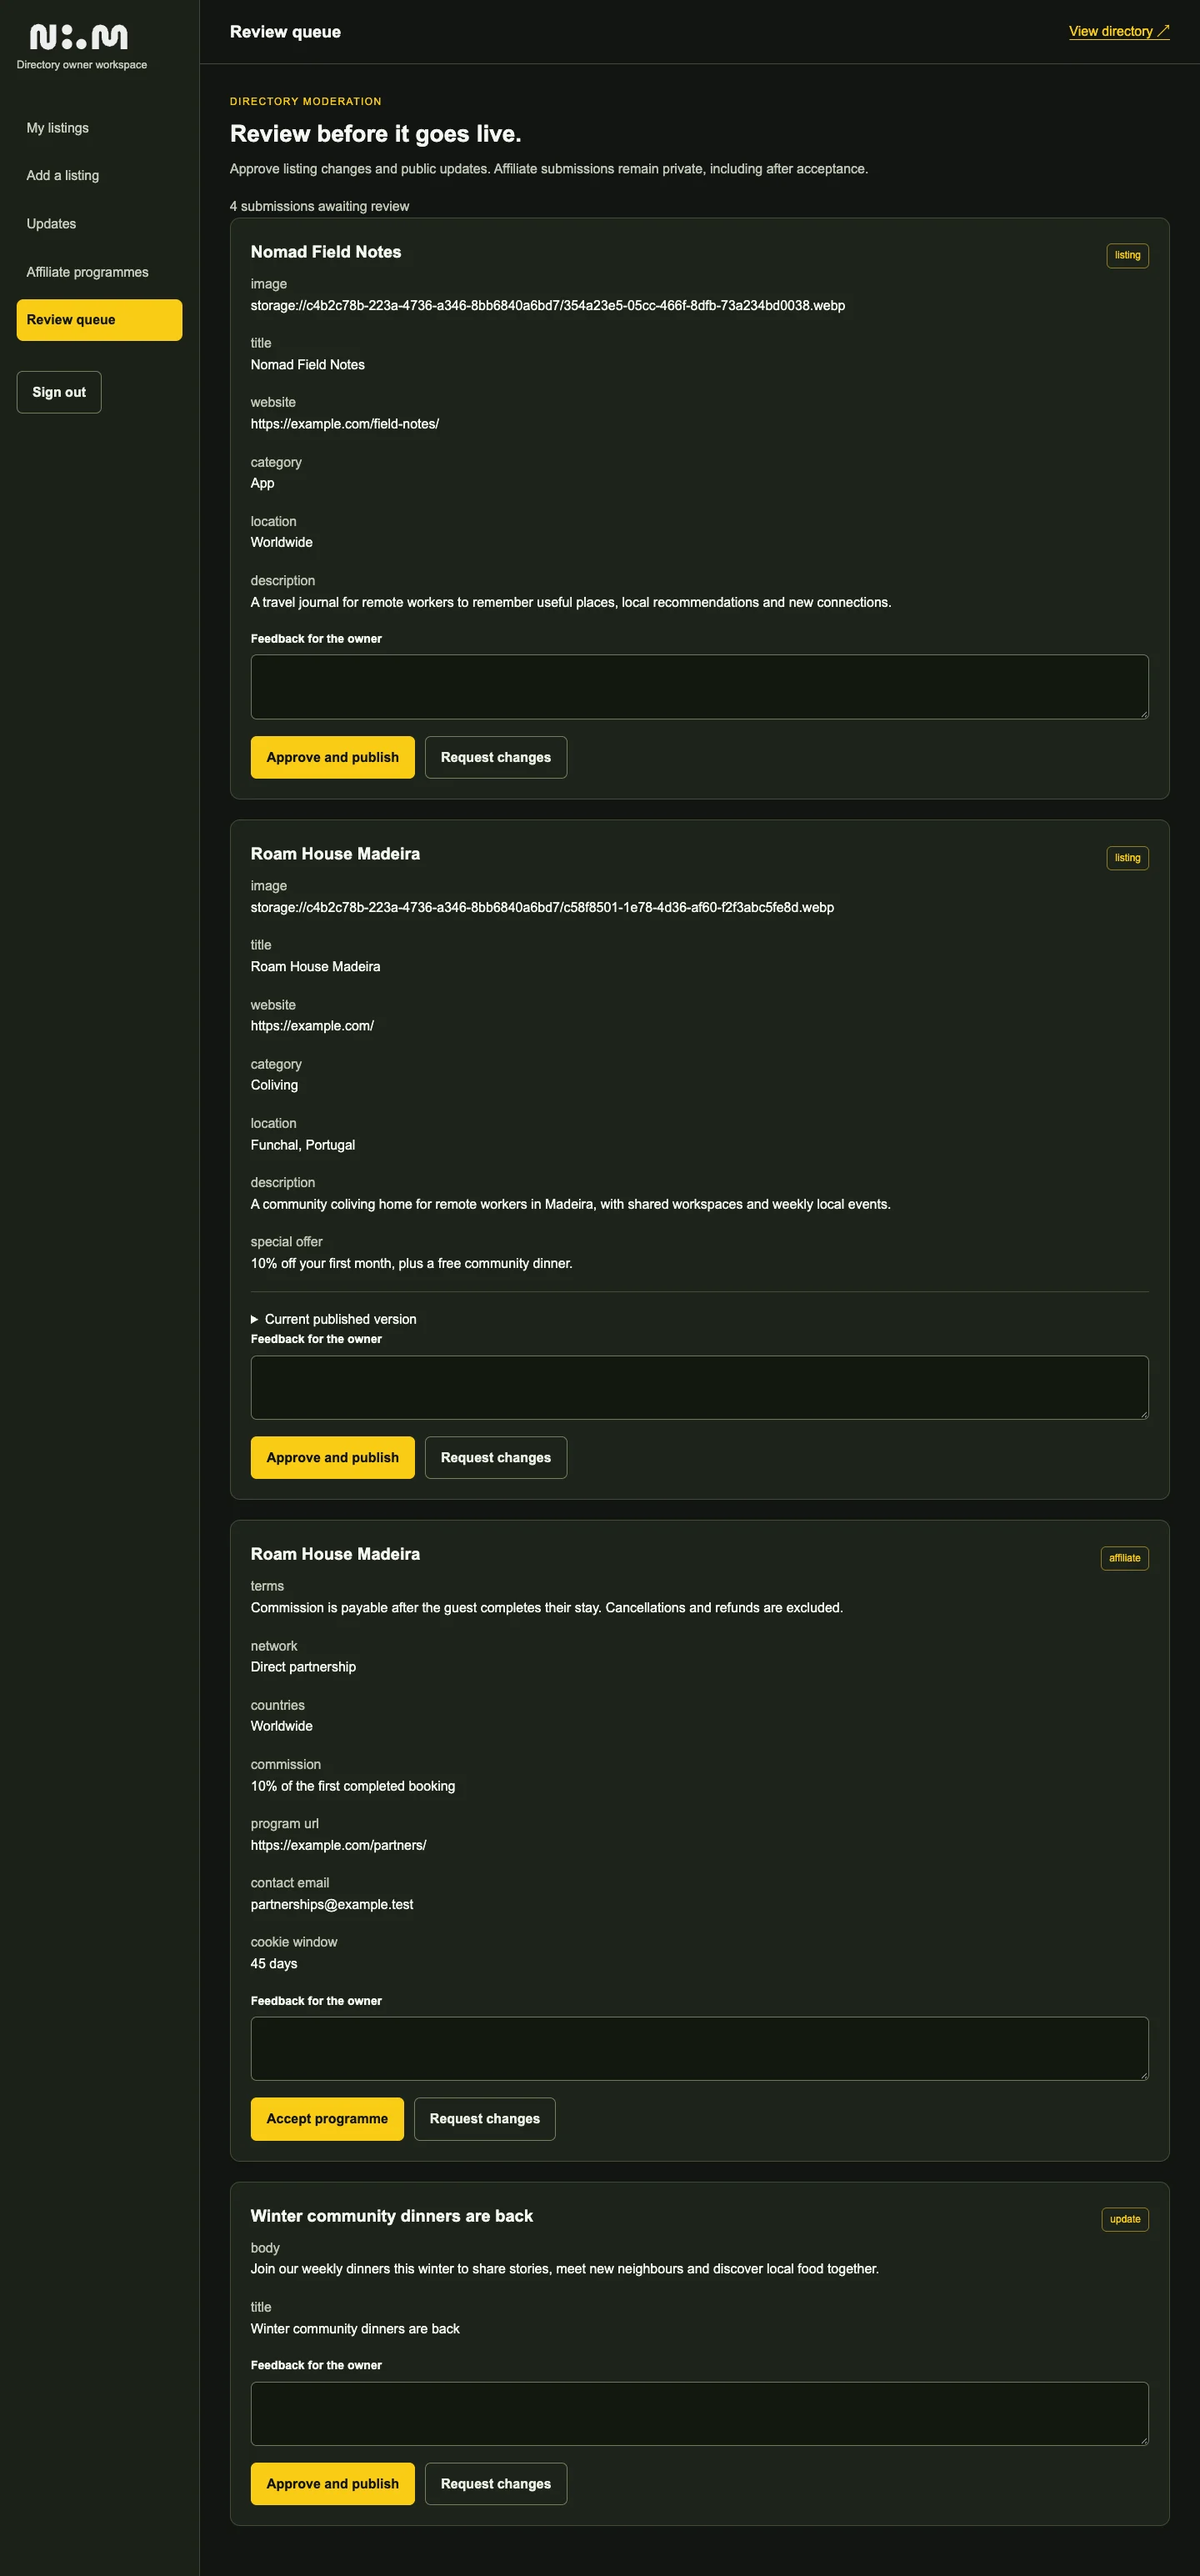
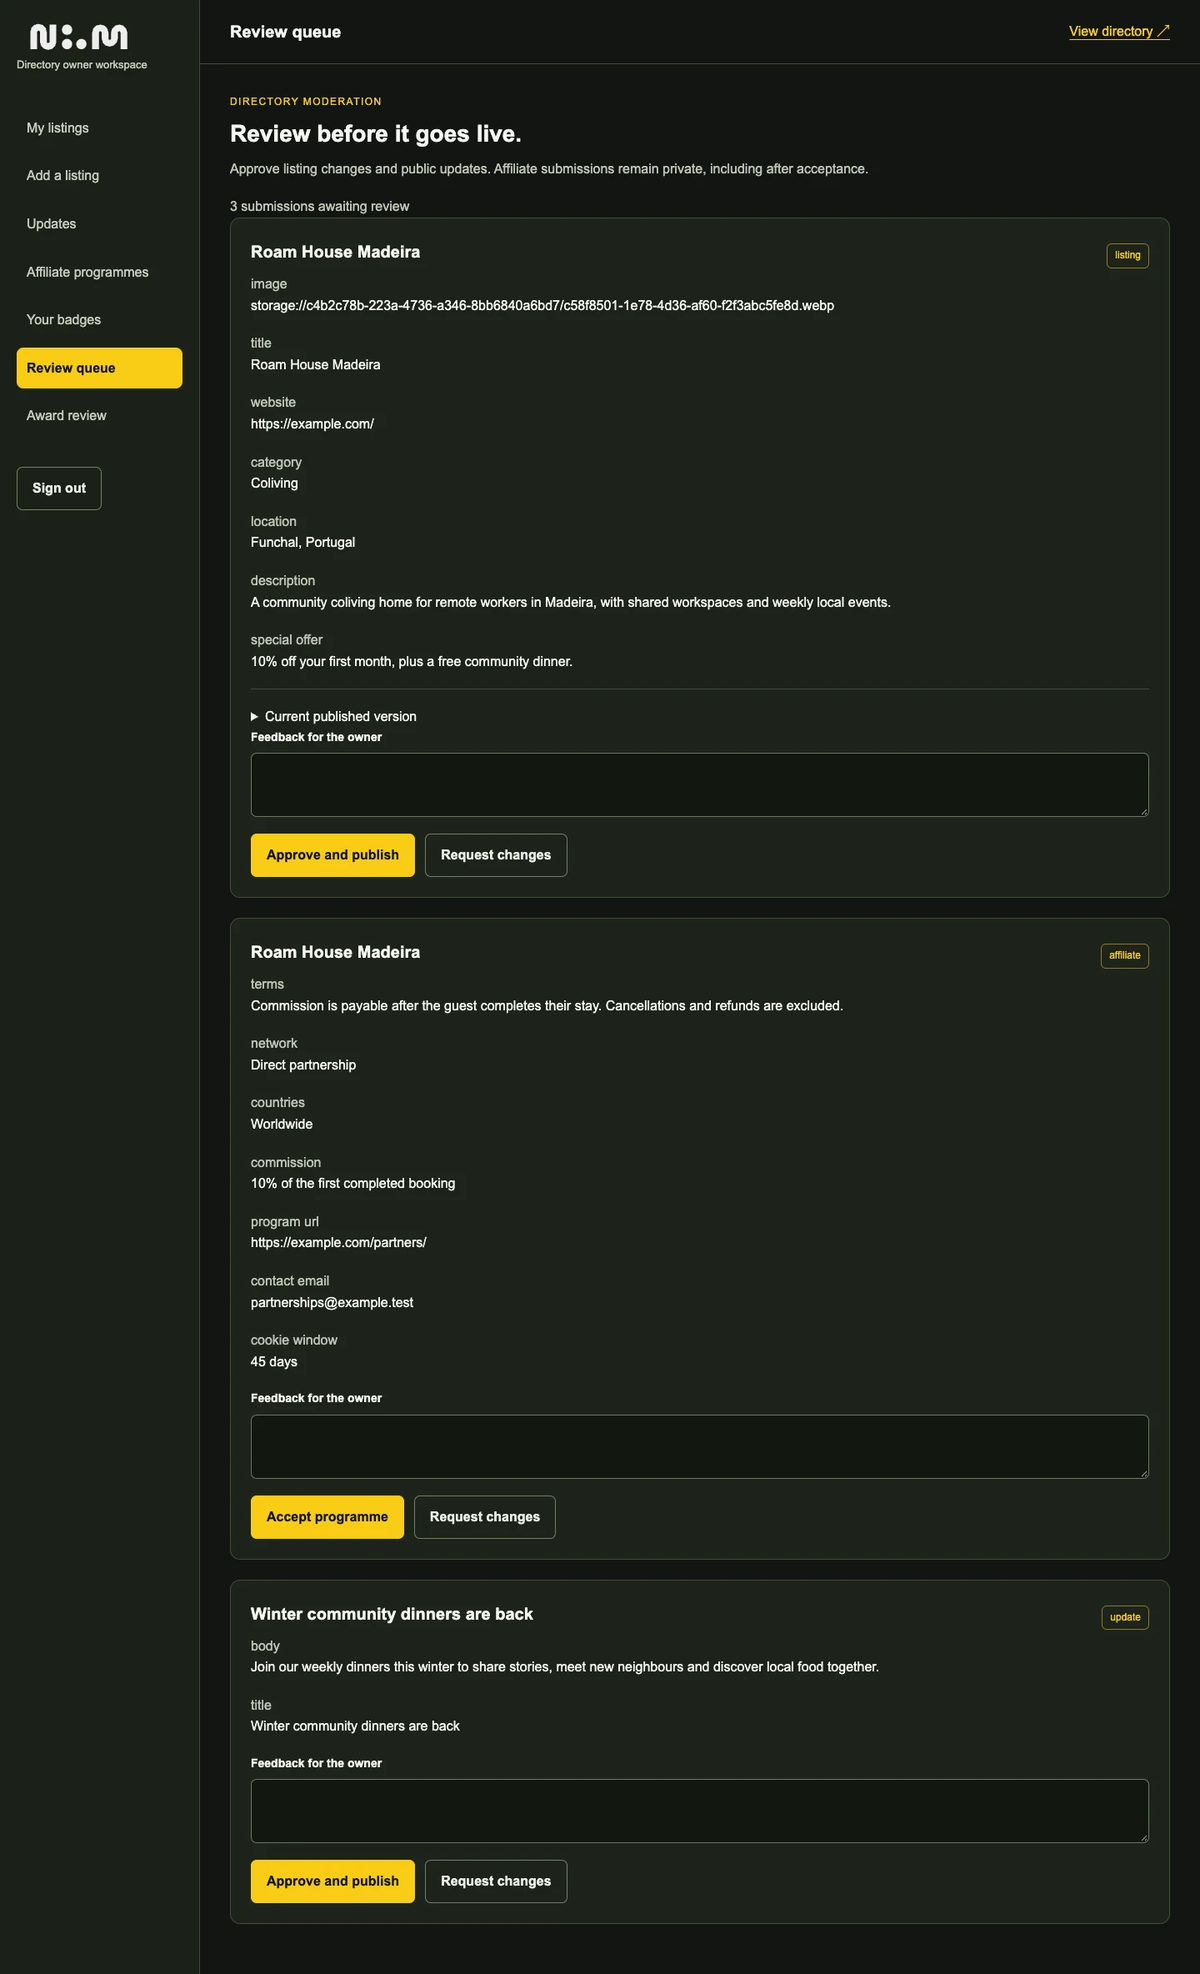
docs: show every directory feature in PR screenshots

diff --git a/docs/screenshots/README.md b/docs/screenshots/README.md
@@ -1,67 +1,113 @@
-# Directory priority and owner management
+# Directory priority, owner accounts, votes and awards
 
-Real Chrome captures. Website before: commit `5841f16`. Desktop website captures: 1440 × 1000; mobile: 390 × 844. Owner screenshots are full-page captures at 1440px or 390px wide, from authenticated sessions against **isolated local Supabase with fictional demo businesses**. No production accounts or commercial terms are shown. The Astro developer toolbar is hidden.
+Real Chrome captures of the implemented website. Before: base commit `5841f16`. After: this branch. **Accounts, votes, updates and awards use isolated local Supabase fixtures; businesses and completed contest periods are demonstrations, not production winners.** The embedded website example uses the actual copied badge HTML. Backend migrations and checks are linked above and below; paid placement/payment and affiliate activation remain proposals.
 
-## Homepage: new hero, original sections underneath
+### Homepage and header — before / after
 
-| Before | After |
+| Desktop before | Desktop after |
 | --- | --- |
-| ![Original homepage](home-before.webp) | ![Directory hero with original homepage sections](home-after.webp) |
+| ![Original homepage and header](home-before.webp) | ![Directory hero and original header with one Magazine menu](home-after.webp) |
+
+| Mobile before | Mobile after |
+| --- | --- |
 | ![Original mobile homepage](home-mobile-before.webp) | ![Mobile directory hero](home-mobile-after.webp) |
 
-The existing directory cards are moved up, and the original magazine presentation remains below the fold:
+The original magazine presentation remains active below the fold:
 
-![Original magazine cover presentation retained below the fold](home-magazine-after.webp)
+![Original magazine presentation retained below the fold](home-magazine-after.webp)
 
-## Directory: same URL and existing visual design
+### Directory — same URL, existing design
 
-The hero, sidebar and list cards retain their original design. Listings are now in the initial HTML, and approved owner changes are served immediately. The after screenshot includes local fixture listings used to verify publication.
-
-| Before | After |
+| Desktop before | Desktop after |
 | --- | --- |
-| ![Directory before](directory-before.webp) | ![Directory with server-rendered listings](directory-after.webp) |
-| ![Mobile directory before](directory-mobile-before.webp) | ![Mobile directory after](directory-mobile-after.webp) |
+| ![Original directory](directory-before.webp) | ![Server-rendered directory with winner link](directory-after.webp) |
 
-## Owner management — implemented
-
-![Owner dashboard with a live listing, pending edits and a draft](owner-dashboard.webp)
-
-![Edit business details and submit for review](owner-listing.webp)
-
-![Create and manage business updates](owner-updates.webp)
-
-![Submit private affiliate programme terms](owner-affiliates.webp)
-
-![Reviewer queue with the current published version and pending changes](owner-review.webp)
-
-| Mobile dashboard | Mobile affiliate form |
+| Mobile before | Mobile after |
 | --- | --- |
-| ![Mobile owner dashboard](owner-dashboard-mobile.webp) | ![Mobile affiliate programme](owner-affiliates-mobile.webp) |
+| ![Original mobile directory](directory-mobile-before.webp) | ![Mobile server-rendered directory](directory-mobile-after.webp) |
 
-Run the scripts in [the owner workspace runbook](../directory-owner-workspace.md) to reproduce the account, form, RLS, publication and browser checks. The migration has not been applied to production.
+### Account creation, ownership and listing management
 
-## Member upvotes
+![Email account creation and sign in](owner-login.webp)
 
-Real local Supabase votes, not production popularity. The highlighted button is the signed-in member's vote; totals are public. The original directory card styling is retained.
+![Owner dashboard, published listings, drafts and verified claim form](owner-dashboard.webp)
 
-![Directory sorted by most upvoted, with the member's vote highlighted](votes-directory.webp)
+![Edit business details, upload a logo, save a draft or submit changes](owner-listing.webp)
 
-| Login before voting | Mobile upvotes |
+### Business updates — owner and public views
+
+![Owner creates and manages business updates](owner-updates.webp)
+
+![Approved business updates displayed publicly](public-updates.webp)
+
+### Affiliate programme and reviewer workflow
+
+![Private affiliate programme submission and review status](owner-affiliates.webp)
+
+![Reviewer queue for listing changes, updates and affiliate terms](owner-review.webp)
+
+| Mobile owner dashboard | Mobile affiliate programme |
 | --- | --- |
-| ![Email login returns the visitor to confirm their vote](votes-login.webp) | ![Mobile listing vote controls](votes-mobile.webp) |
+| ![Mobile listing management and claim form](owner-dashboard-mobile.webp) | ![Mobile affiliate programme form](owner-affiliates-mobile.webp) |
 
-## Community awards and website badges
+### Upvotes — login, confirmation and voted state
 
-Real Chrome captures of the implemented pages and official SVG endpoints. **Local test accounts and simulated completed periods; these are not production winners.** The SQL finalizer calculates the fixture awards; no winners are included in production migrations.
-
-![The four official SVG badge types rendered from local award records](awards-badges.webp)
-
-![Daily winners and official Nomad Directory badges](awards-winners.webp)
-
-![Public award verification and copyable website embed](awards-result.webp)
-
-![Owner library with earned badges and embed code](awards-owner.webp)
-
-| Mobile winners | Mobile owner badge library |
+| Login before voting | Vote confirmation after login |
 | --- | --- |
-| ![Mobile community winners](awards-winners-mobile.webp) | ![Mobile owned badges and embed code](awards-owner-mobile.webp) |
+| ![Sign in or create an account to vote](votes-login.webp) | ![Confirm the selected listing upvote](votes-confirm.webp) |
+
+![Most upvoted sorting and signed-in highlighted vote](votes-directory.webp)
+
+![Mobile upvote controls](votes-mobile.webp)
+
+### Daily, weekly, monthly and yearly winners
+
+The four official SVG badge designs:
+
+![Daily, weekly, monthly and yearly Nomad Directory badges](awards-badges.webp)
+
+| Daily winners | Weekly winners |
+| --- | --- |
+| ![Daily winners with joint first place](awards-winners.webp) | ![Weekly winners](awards-week.webp) |
+
+| Monthly winners | Yearly winners |
+| --- | --- |
+| ![Monthly winners](awards-month.webp) | ![Yearly winners](awards-year.webp) |
+
+### Live standings and award rules
+
+![Current period standings and rules for earning a badge](awards-standings.webp)
+
+### Public verification, copyable code and badge on another website
+
+![Permanent award verification and copyable website embed code](awards-result.webp)
+
+**Example placement on a fictional business website:** the image is loaded from the real local SVG endpoint, and clicking it was verified to open the official award result. The surrounding sample website is only an embed demonstration.
+
+![Copied Nomad Directory badge displayed on a sample business website](awards-website-embed.webp)
+
+### Owner badge library
+
+![Owner library of earned badges and website embed codes](awards-owner.webp)
+
+| Mobile winners | Mobile badge library |
+| --- | --- |
+| ![Mobile community winners](awards-winners-mobile.webp) | ![Mobile owned badges and copyable embed code](awards-owner-mobile.webp) |
+
+### Award moderation and withdrawn result
+
+![Reviewer-only award withdrawal with private reasons](awards-review.webp)
+
+![Public withdrawn award with no active badge embed](awards-withdrawn.webp)
+
+## Reproducing the screenshots
+
+The unchanged before captures are from base commit `5841f16`. After captures are real Chrome browser screenshots of the current implementation at 1440 × 1000 desktop and 390 × 844 mobile, with full-page owner form captures. The original vote screenshots also show actual local authenticated votes.
+
+Prepare the isolated local fixtures using the [owner workspace runbook](../directory-owner-workspace.md) and [award runbook](../directory-awards.md), start the built preview on localhost, then run:
+
+```bash
+NODE_PATH=/tmp/nomad-browser/node_modules SUPABASE_TEST_CONFIG=/tmp/nomad-owner-secrets.json node scripts/capture-directory-review.cjs
+```
+
+The capture script only accepts loopback URLs and fictional `@example.test` accounts. It signs into existing fixtures and captures the pages without changing listing, vote or award records. Screenshots use WebP. No production migration or deployment was performed.
